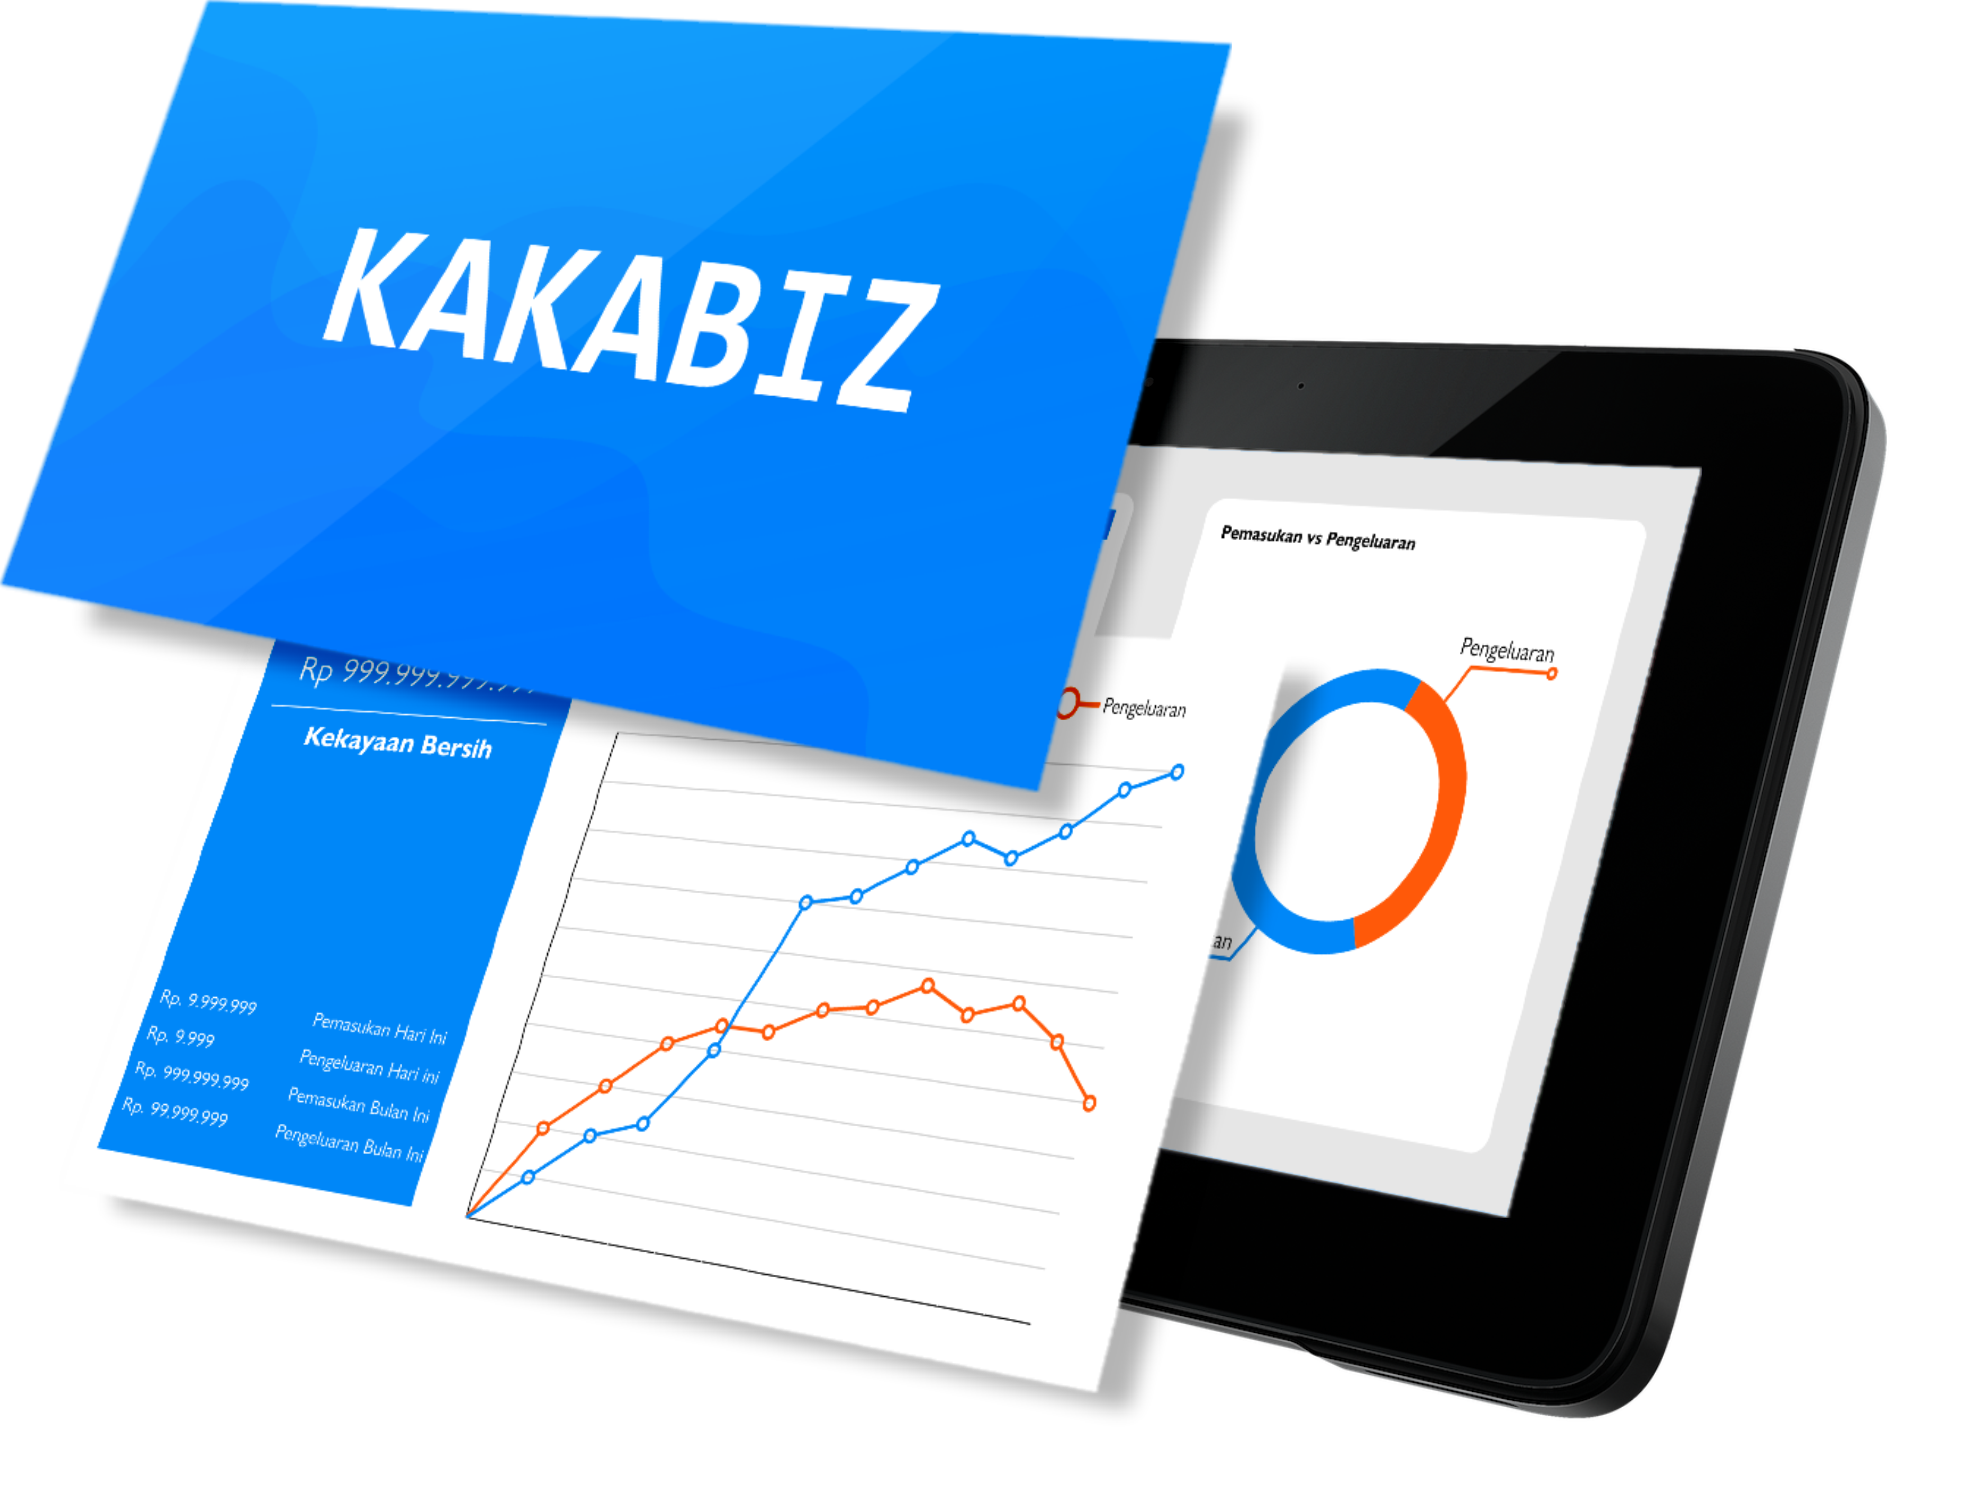
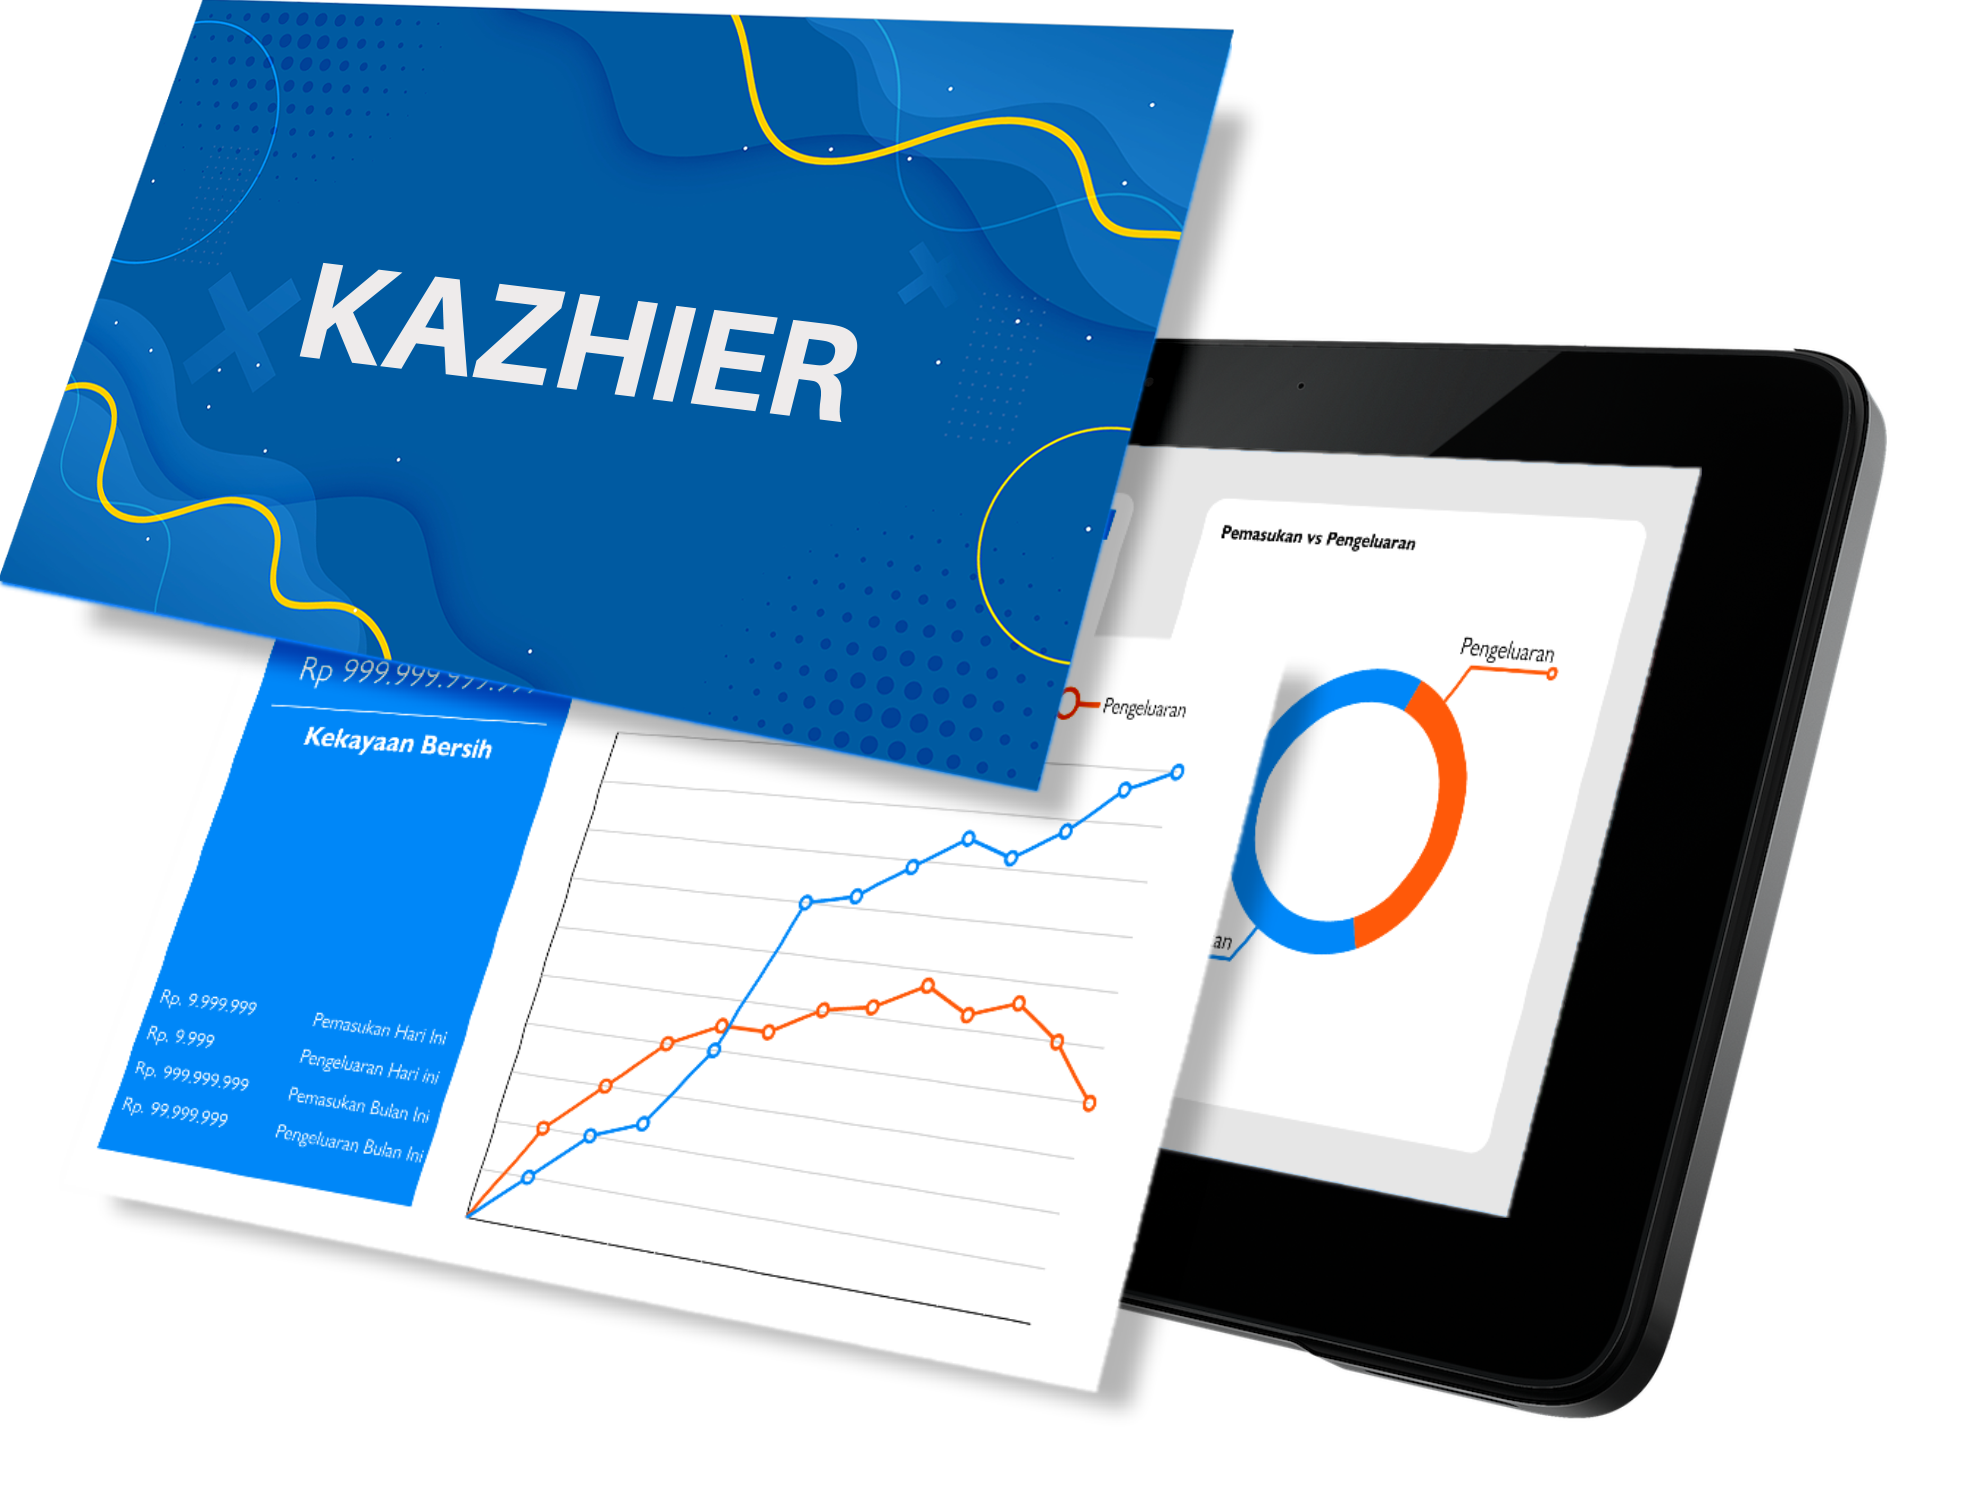
Update (m) Gambar salah (+) gitignore framework

Changed region(s): [[0.0, 0.0, 0.6162, 0.5298]]

diff --git a/resources/views/landing-page/index.blade.php b/resources/views/landing-page/index.blade.php
@@ -44,7 +44,7 @@
 <body>
     <header id="page-header" class="stick-top">
         <div class="header-container">
-            <div class="logo-container"><img src="{{ asset('assets/img/props/logo.svg') }}" alt="Logo Kazhier" height="36"></div>
+            <div class="logo-container"><img src="{{ asset('assets/img/props/logo.png') }}" alt="Logo Kazhier" height="36"></div>
             <div class="nav-container">
                 <nav>
                     <div id="nav-btn" class="nav-btn">
@@ -212,7 +212,7 @@
             <div class="row align-items-stretch">
                 <div class="col col-md-6">
                     <div class="logo-container d-flex align-items-center">
-                        <img src="{{ asset('assets/img/props/logo.svg') }}" alt="Logo Kazhier" height="36">
+                        <img src="{{ asset('assets/img/props/logo.png') }}" alt="Logo Kazhier" height="36">
                     </div>
                 </div>
                 <div class="col col-md-6">
